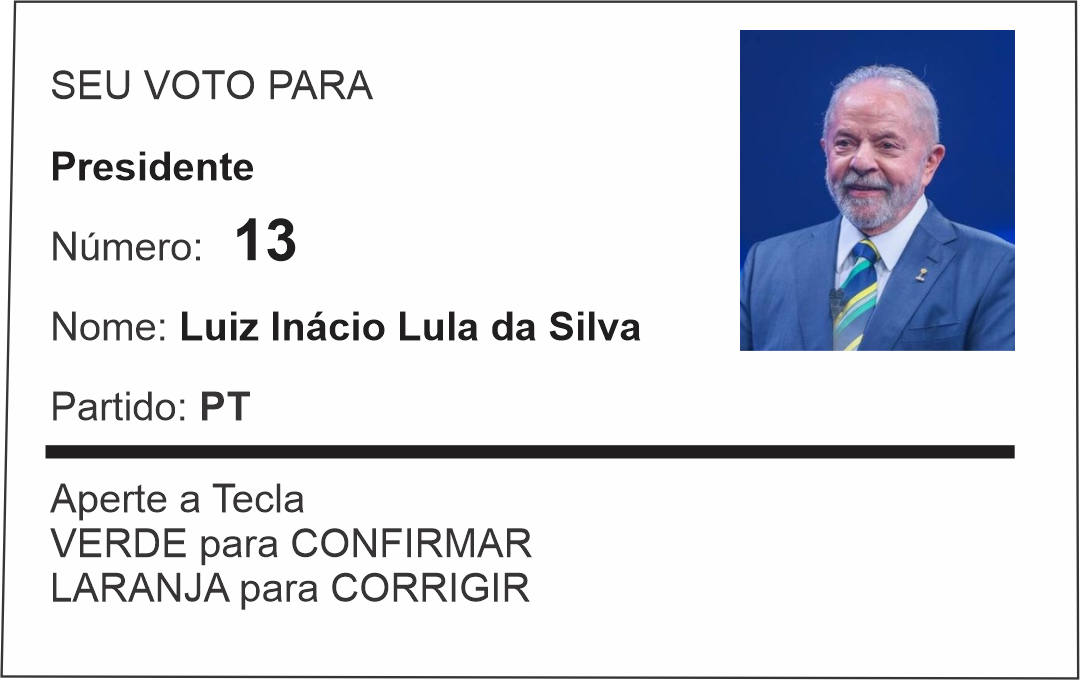
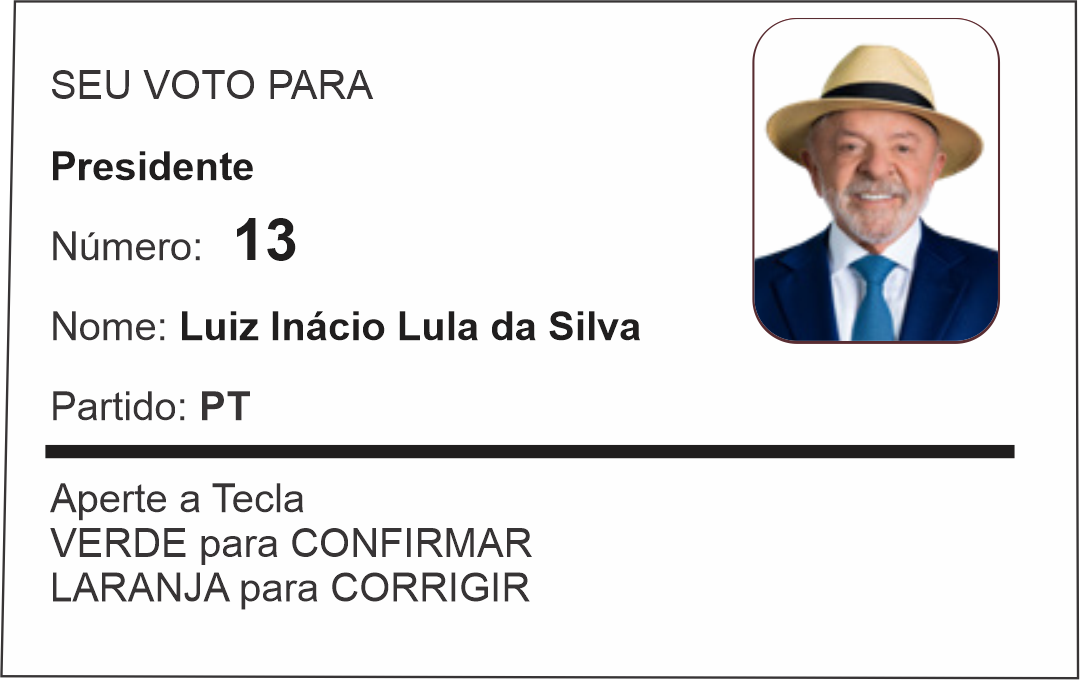
Update Lula slate photo and bypass cached image.

diff --git a/public/js/app.js b/public/js/app.js
@@ -21,7 +21,7 @@ const CANDIDATOS = [
   {
     numero: "13",
     cargo: "Presidente",
-    tela: "imagens/lula-chapa.png",
+    tela: "imagens/lula-chapa.png?v=2",
   },
 ];
 
